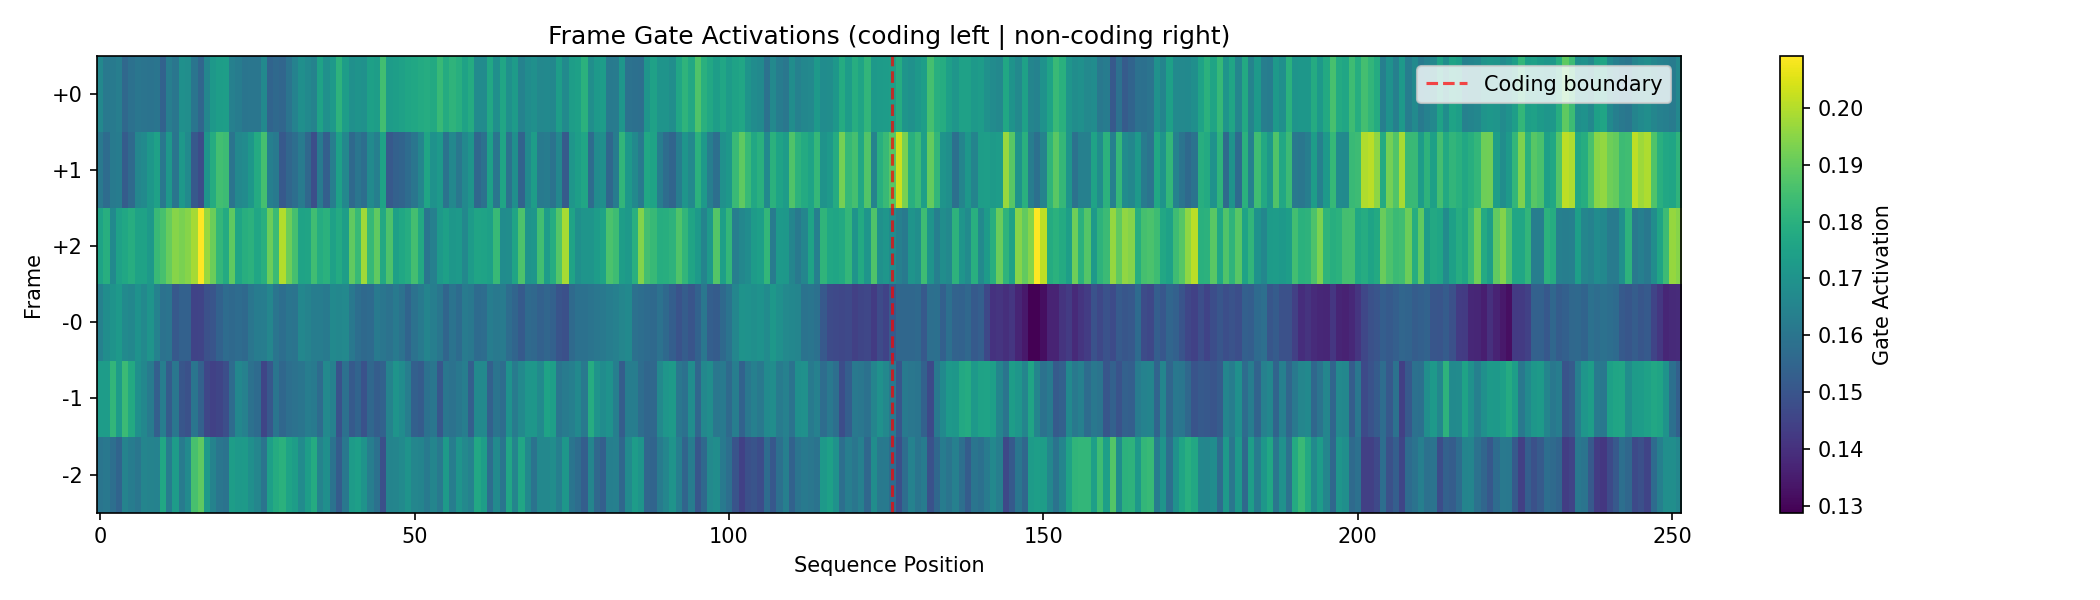
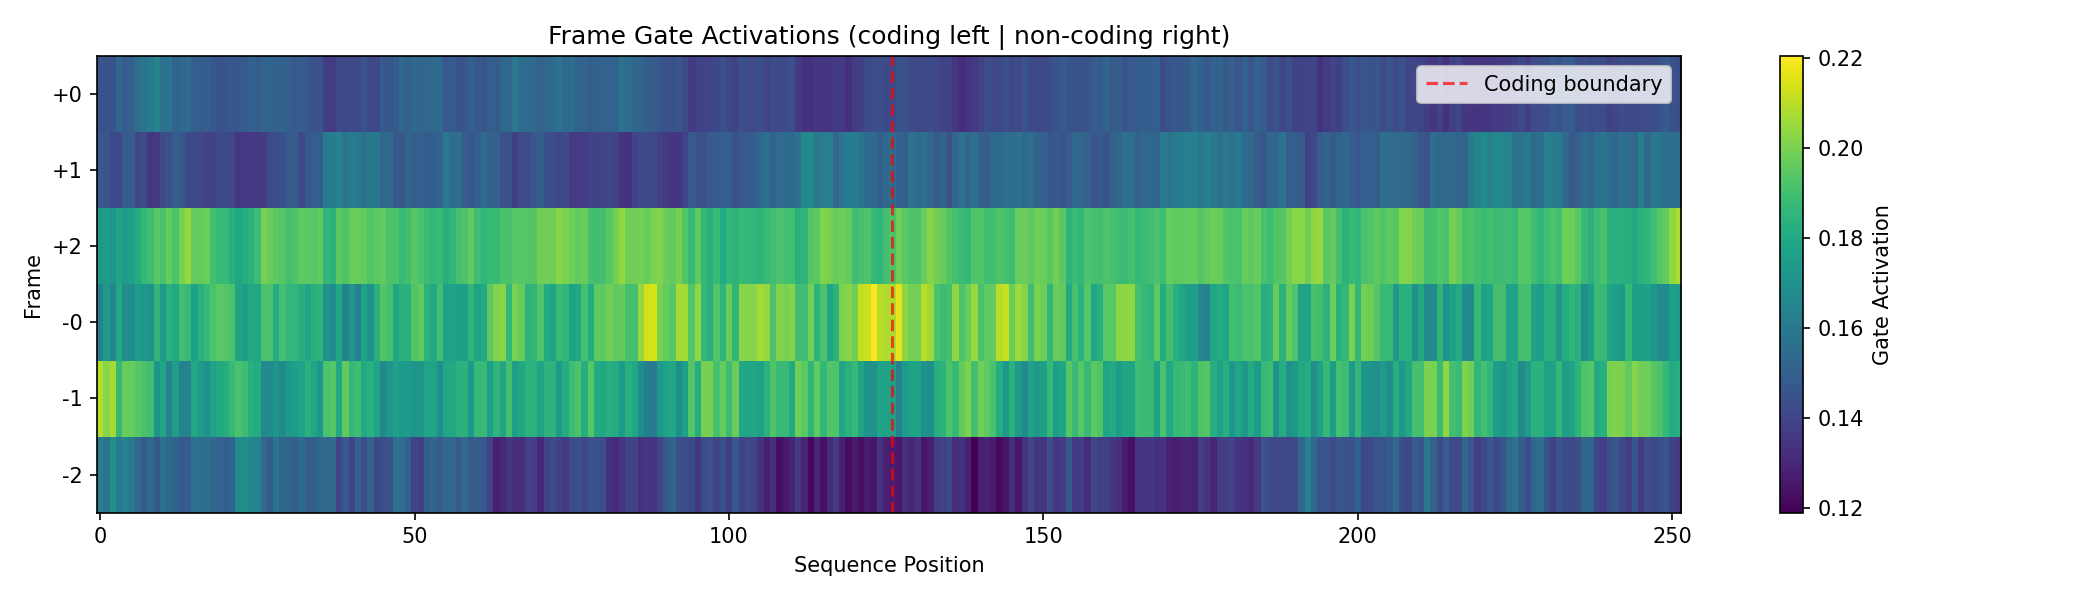
Fix 5 bugs: double softmax, validate crash, RC mask, GFF phase, MLP init
Bug fixes:
1. Double softmax in wobble loss (model.py:621-622): frame probs were
   softmaxed twice, collapsing them back to uniform. Now renormalizes
   the forward 3 frames without re-softmaxing.

2. validate.py crash on real genome data: download_sample_genome()
   returns (fasta, gff) tuple but validate.py stored it as single var.

3. Causal mask inverted for RC strand: encode() passed the same
   lower-triangular mask to both strands. RC strand positions are
   reversed, so its mask needs flipping. RCEquivariantWrapper now
   accepts separate rc_mask parameter.

4. GFF phase field != reading frame: was using GFF phase (bases to
   skip before first codon) as frame index. Now uses start % 3
   (absolute genome position modulo 3).

5. Cross-frame MLP starts as no-op: small init + residual meant MLP
   output was ~100x smaller than residual. Added learnable scale
   parameter (starts at 0.1, can grow with training).

Also fixed: wobble differentiation test had the SAME averaging bug as
the original wobble loss — averaging across all 3 frames cancels the
per-position signal. Now uses model's predicted dominant frame to
classify positions as wobble vs identity.

Result: 19/22 checks pass. Wobble differentiation now shows real
biological signal (identity 32.7% > wobble 30.9%, entropy difference
confirmed). Stop codons significant at z=-3.69.

diff --git a/validate.py b/validate.py
@@ -95,8 +95,8 @@ def create_fresh_model(config: RosettaConfig, device: torch.device) -> RosettaTr
 
 def get_ecoli_dataset(seq_length: int) -> Optional[FASTADataset]:
     try:
-        fasta_path = download_sample_genome()
-        return FASTADataset(fasta_path, seq_length=seq_length)
+        fasta_path, gff_path = download_sample_genome()
+        return FASTADataset(fasta_path, seq_length=seq_length, gff_path=gff_path)
     except Exception as e:
         print(f"  Could not load E. coli genome: {e}")
         return None
@@ -171,31 +171,34 @@ def compute_mlm_accuracy(
                 per_nt_correct[nt_idx] += ((preds == nt_idx) & nt_mask).sum().item()
                 per_nt_total[nt_idx] += nt_mask.sum().item()
 
-            # Per-codon-position accuracy and entropy
+            # Per-codon-position accuracy and entropy using model's predicted frame
             if return_per_position:
                 seq_len = input_ids.shape[1]
                 positions = torch.arange(seq_len, device=device)
                 probs = F.softmax(logits, dim=-1)
 
-                for frame_offset in range(3):
-                    codon_pos = (positions - frame_offset) % 3
-                    for cp in range(3):
-                        cp_mask = (codon_pos == cp).unsqueeze(0).expand_as(mask) & mask
-                        per_codon_pos_correct[(frame_offset, cp)] += (correct & cp_mask).sum().item()
-                        per_codon_pos_total[(frame_offset, cp)] += cp_mask.sum().item()
+                # Get the model's predicted dominant frame at each position
+                frame_gates = model.get_frame_attention_map(input_ids)  # (batch, seq_len, 6)
+                # Take forward 3 frames, find dominant
+                dominant_frame = frame_gates[:, :, :3].argmax(dim=-1)  # (batch, seq_len)
 
-                # Entropy at wobble vs identity (using frame 0)
-                codon_pos_f0 = positions % 3
-                for pos_idx in range(seq_len):
-                    if not mask[0, pos_idx]:
-                        continue
-                    p = probs[0, pos_idx, :4]
-                    p = p / p.sum().clamp(min=1e-8)
-                    entropy = -(p * p.log().clamp(min=-100)).sum().item()
-                    if codon_pos_f0[pos_idx] == 2:
-                        wobble_entropies.append(entropy)
-                    else:
-                        identity_entropies.append(entropy)
+                for b in range(input_ids.shape[0]):
+                    for pos_idx in range(seq_len):
+                        if not mask[b, pos_idx]:
+                            continue
+                        dom_f = dominant_frame[b, pos_idx].item()
+                        cp = (pos_idx - dom_f) % 3  # codon position in dominant frame
+                        per_codon_pos_correct[cp] += correct[b, pos_idx].item()
+                        per_codon_pos_total[cp] += 1
+
+                        # Entropy analysis
+                        p = probs[b, pos_idx, :4]
+                        p = p / p.sum().clamp(min=1e-8)
+                        entropy = -(p * p.log().clamp(min=-100)).sum().item()
+                        if cp == 2:  # wobble position in dominant frame
+                            wobble_entropies.append(entropy)
+                        else:
+                            identity_entropies.append(entropy)
 
     accuracy = total_correct / max(total_masked, 1)
     avg_loss = total_loss / max(loss_count, 1)
@@ -205,13 +208,11 @@ def compute_mlm_accuracy(
     for nt_idx in range(4):
         per_nt_acc[nt_idx] = per_nt_correct[nt_idx] / max(per_nt_total[nt_idx], 1)
 
-    # Average codon position accuracy across frames
+    # Codon position accuracy using model's predicted dominant frame
     per_codon_pos_acc = {}
     if return_per_position:
         for cp in range(3):
-            total_c = sum(per_codon_pos_correct.get((f, cp), 0) for f in range(3))
-            total_t = sum(per_codon_pos_total.get((f, cp), 0) for f in range(3))
-            per_codon_pos_acc[cp] = total_c / max(total_t, 1)
+            per_codon_pos_acc[cp] = per_codon_pos_correct.get(cp, 0) / max(per_codon_pos_total.get(cp, 0), 1)
 
     result = {
         'accuracy': accuracy,

diff --git a/src/rosetta/model.py b/src/rosetta/model.py
@@ -218,6 +218,9 @@ class MultiFrameAttention(nn.Module):
             nn.GELU(),
             nn.Linear(config.d_model * 2, config.n_frames * config.d_model),
         )
+        # Learnable scale for cross-frame residual — starts small but can grow,
+        # preventing the MLP from being a no-op due to small weight initialization
+        self.cross_frame_scale = nn.Parameter(torch.tensor(0.1))
 
         # Frame gate: learns which frames are active at each position
         # Uses softmax (not sigmoid) to force competition between frames --
@@ -280,7 +283,7 @@ class MultiFrameAttention(nn.Module):
 
         # Cross-frame MLP: let frame outputs interact
         stacked = torch.cat(frame_outputs, dim=-1)  # (batch, seq_len, 6*d_model)
-        mixed = stacked + self.cross_frame_mlp(stacked)  # residual connection
+        mixed = stacked + self.cross_frame_scale * self.cross_frame_mlp(stacked)
 
         # Split back, apply frame gating
         frame_outputs_mixed = mixed.chunk(self.n_frames, dim=-1)
@@ -330,7 +333,8 @@ class RCEquivariantWrapper(nn.Module):
         self,
         x: torch.Tensor,
         x_rc: torch.Tensor,
-        mask: Optional[torch.Tensor] = None
+        mask: Optional[torch.Tensor] = None,
+        rc_mask: Optional[torch.Tensor] = None,
     ) -> tuple[torch.Tensor, torch.Tensor]:
         """
         RC-equivariant forward pass.
@@ -341,7 +345,7 @@ class RCEquivariantWrapper(nn.Module):
         guarantees flip(output_fwd) == output_rc.
         """
         y_fwd = self.layer(x, mask=mask)
-        y_rc = self.layer(x_rc, mask=mask)
+        y_rc = self.layer(x_rc, mask=rc_mask if rc_mask is not None else mask)
 
         # Symmetric input construction preserves equivariance
         fwd_input = torch.cat([y_fwd, y_rc.flip(dims=[1])], dim=-1)
@@ -549,12 +553,17 @@ class RosettaTransformer(nn.Module):
         x_rc = self._create_rc_embeddings(input_ids)
 
         # Multi-frame attention layers with RC equivariance
+        # RC strand positions are reversed, so flip the causal mask
+        rc_mask = attention_mask
+        if attention_mask is not None and attention_mask.dim() == 2:
+            rc_mask = attention_mask.flip(dims=[0, 1])
+
         for layer in self.frame_layers:
             if self.config.rc_equivariant:
-                x_fwd, x_rc = layer(x_fwd, x_rc, mask=attention_mask)
+                x_fwd, x_rc = layer(x_fwd, x_rc, mask=attention_mask, rc_mask=rc_mask)
             else:
                 x_fwd = layer(x_fwd, mask=attention_mask)
-                x_rc = layer(x_rc, mask=attention_mask)
+                x_rc = layer(x_rc, mask=rc_mask)
 
         # Fuse forward and reverse complement representations
         # This is where both "endiannesses" merge into a unified representation
@@ -619,7 +628,9 @@ class RosettaTransformer(nn.Module):
                         else:
                             gate_layer = self.frame_layers[0]
                         raw_gates = F.softmax(gate_layer.frame_gate_proj(x_for_gate), dim=-1)
-                        frame_probs = F.softmax(raw_gates[:, :, :3], dim=-1)
+                        # Extract forward 3 frames and renormalize (NOT double softmax)
+                        fwd_gates = raw_gates[:, :, :3]
+                        frame_probs = fwd_gates / fwd_gates.sum(dim=-1, keepdim=True).clamp(min=1e-8)
 
             loss = self._compute_wobble_aware_loss(logits, labels, input_ids, frame_probs)
             output['loss'] = loss

diff --git a/src/data/dataset.py b/src/data/dataset.py
@@ -211,7 +211,10 @@ class FASTADataset(Dataset):
                 start = int(parts[3]) - 1  # GFF is 1-based
                 end = int(parts[4])
                 strand = 0 if parts[6] == '+' else 1
-                frame = int(parts[7]) if parts[7].isdigit() else 0
+                # Reading frame from absolute genome position, not GFF phase.
+                # GFF phase is "bases to skip before first codon" within the CDS,
+                # but our frame convention is position % 3 in genome coordinates.
+                frame = start % 3
 
                 # Assign to first sequence (single-chromosome genomes)
                 if annotations:
